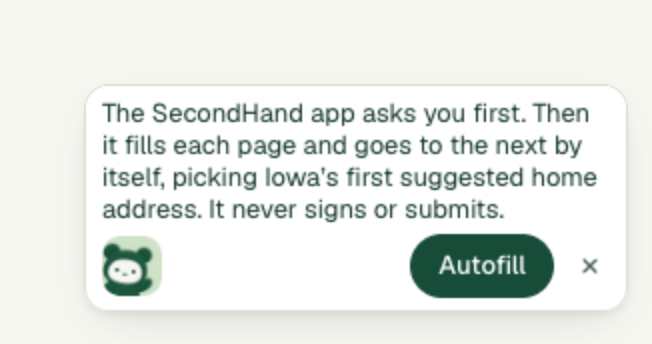
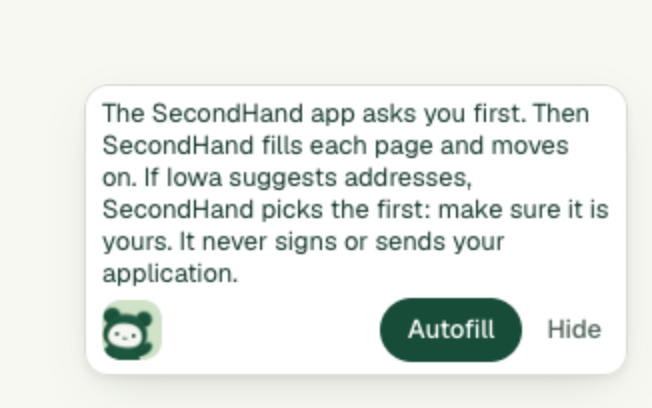
docs(website): retake the Chrome guide's card picture
The guide showed the card from an earlier draft: other words and an × to
hide it. Retaken with scripts/capture-guide-card.cjs from the card as it is
now, with its height and description to match.

Changed region(s): [[0.1227, 0.2326, 0.9509, 0.9302]]

diff --git a/website/app/chrome-extension/page.tsx b/website/app/chrome-extension/page.tsx
@@ -105,9 +105,9 @@ export default function ChromeExtensionGuide() {
           <Image
             className="guide-media guide-card"
             src="/guide/iowa-card.png"
-            alt="The SecondHand card on Iowa’s page. It says the SecondHand app asks first, then fills each page and goes to the next by itself, picking Iowa’s first suggested home address, and never signs or submits. Below are the SecondHand logo, an Autofill button and a button to hide the card."
+            alt="The SecondHand card on Iowa’s page. It says the SecondHand app asks you first, then SecondHand fills each page and moves on. If Iowa suggests addresses, SecondHand picks the first, so make sure it is yours, and it never signs or sends your application. Below are the SecondHand logo, an Autofill button and a Hide button."
             width={652}
-            height={344}
+            height={408}
             unoptimized
           />
           <p>
